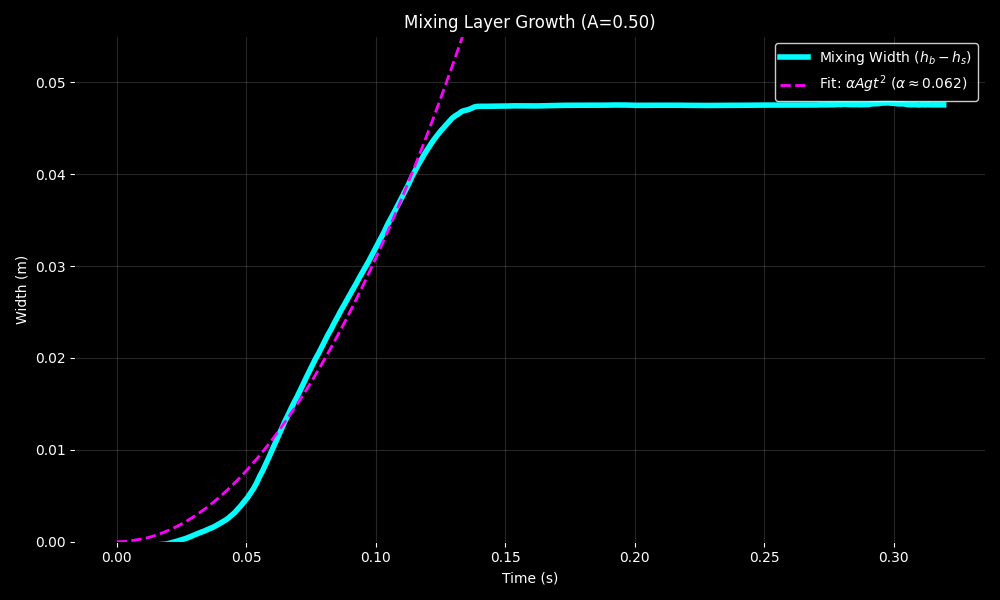
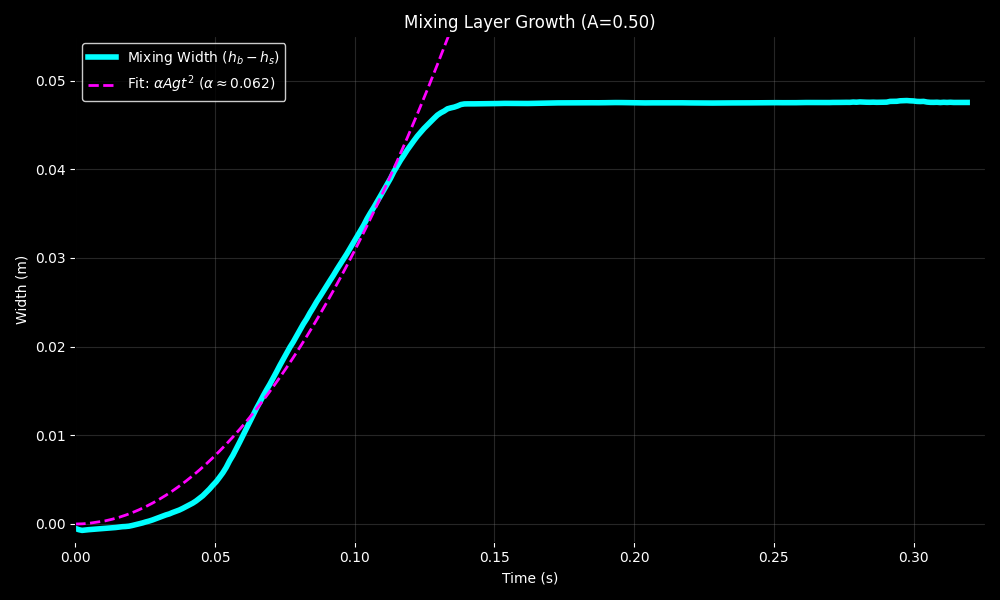
Fix: Ensure mixing width origin is visible in plot

diff --git a/src/analyze_mixing.py b/src/analyze_mixing.py
@@ -111,7 +111,11 @@ def main():
     plt.xlabel('Time (s)', color='white')
     plt.ylabel('Width (m)', color='white')
     plt.title(f'Mixing Layer Growth (A={Atwood:.2f})', color='white')
-    plt.ylim(0, 0.055)
+    plt.ylim(-0.002, 0.055)
+    plt.xlim(0, times[-1] * 1.02)
+    
+    print(f"First 5 widths: {widths[:5]}")
+    print(f"First 5 times: {times[:5]}")
     
     ax.tick_params(axis='x', colors='white')
     ax.tick_params(axis='y', colors='white')
